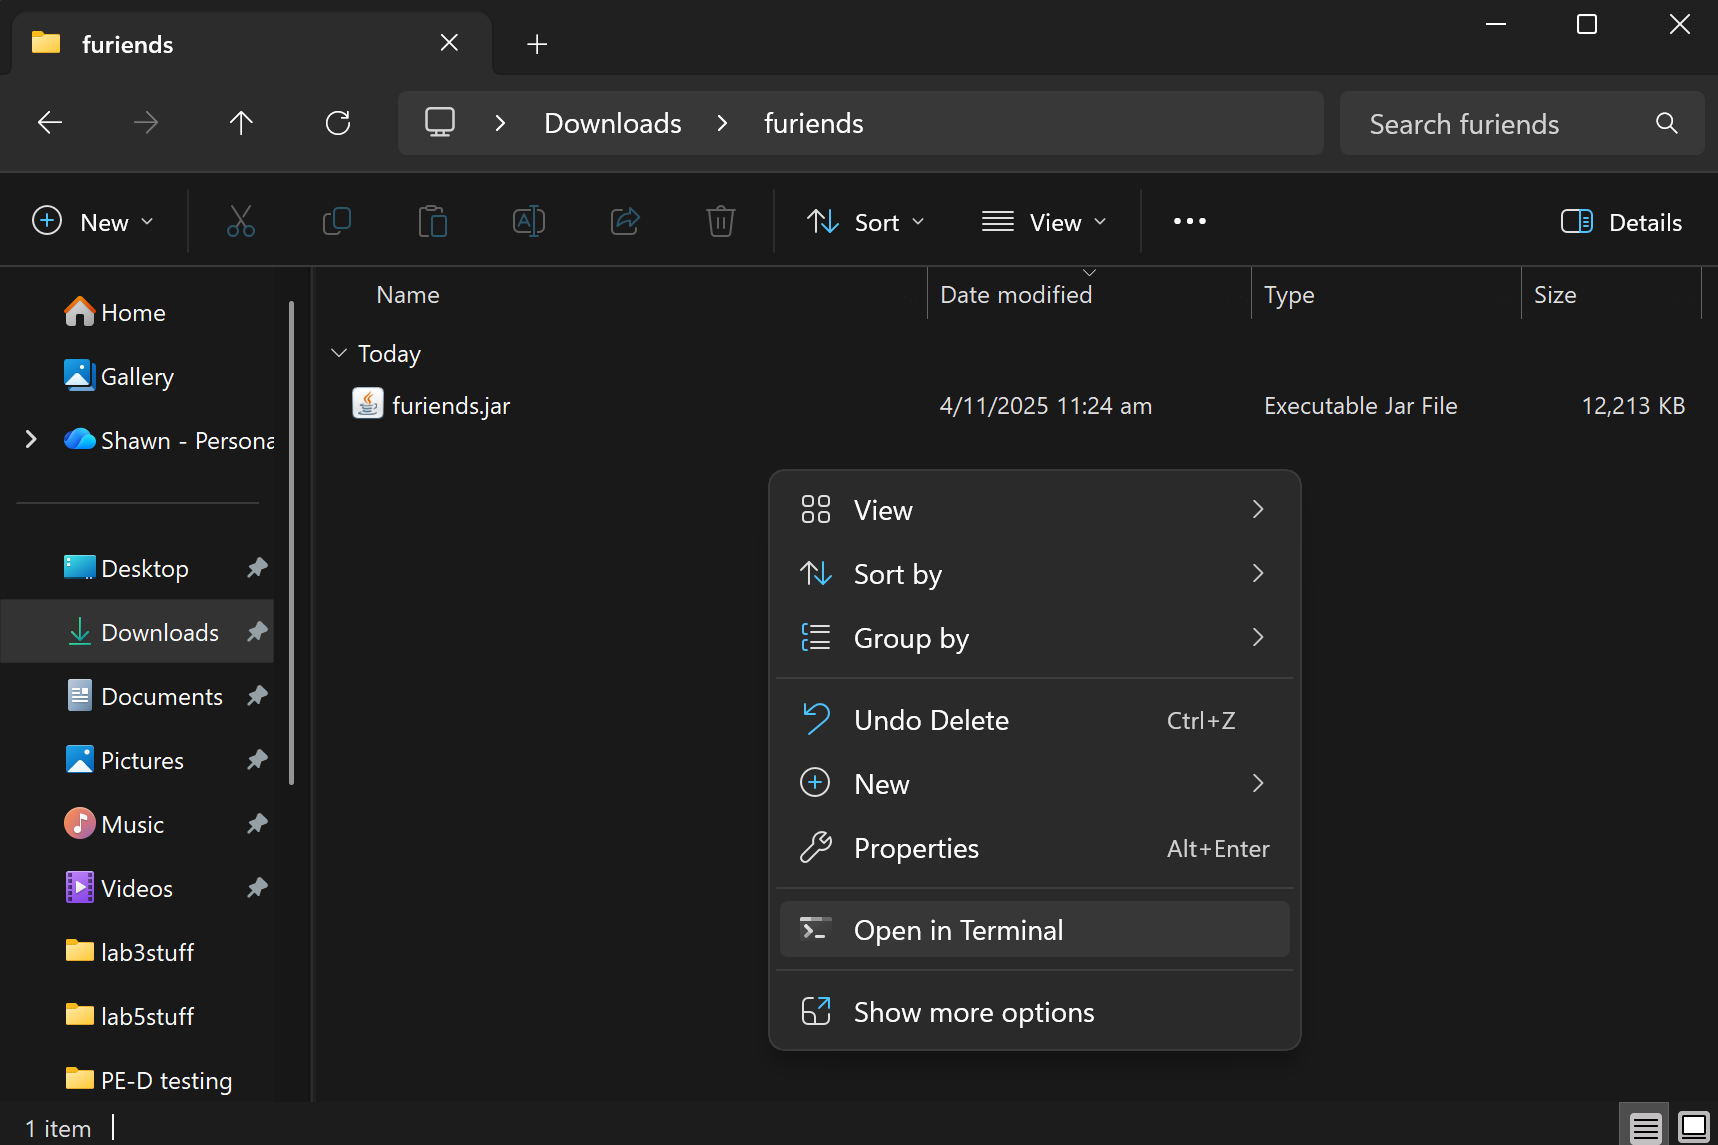
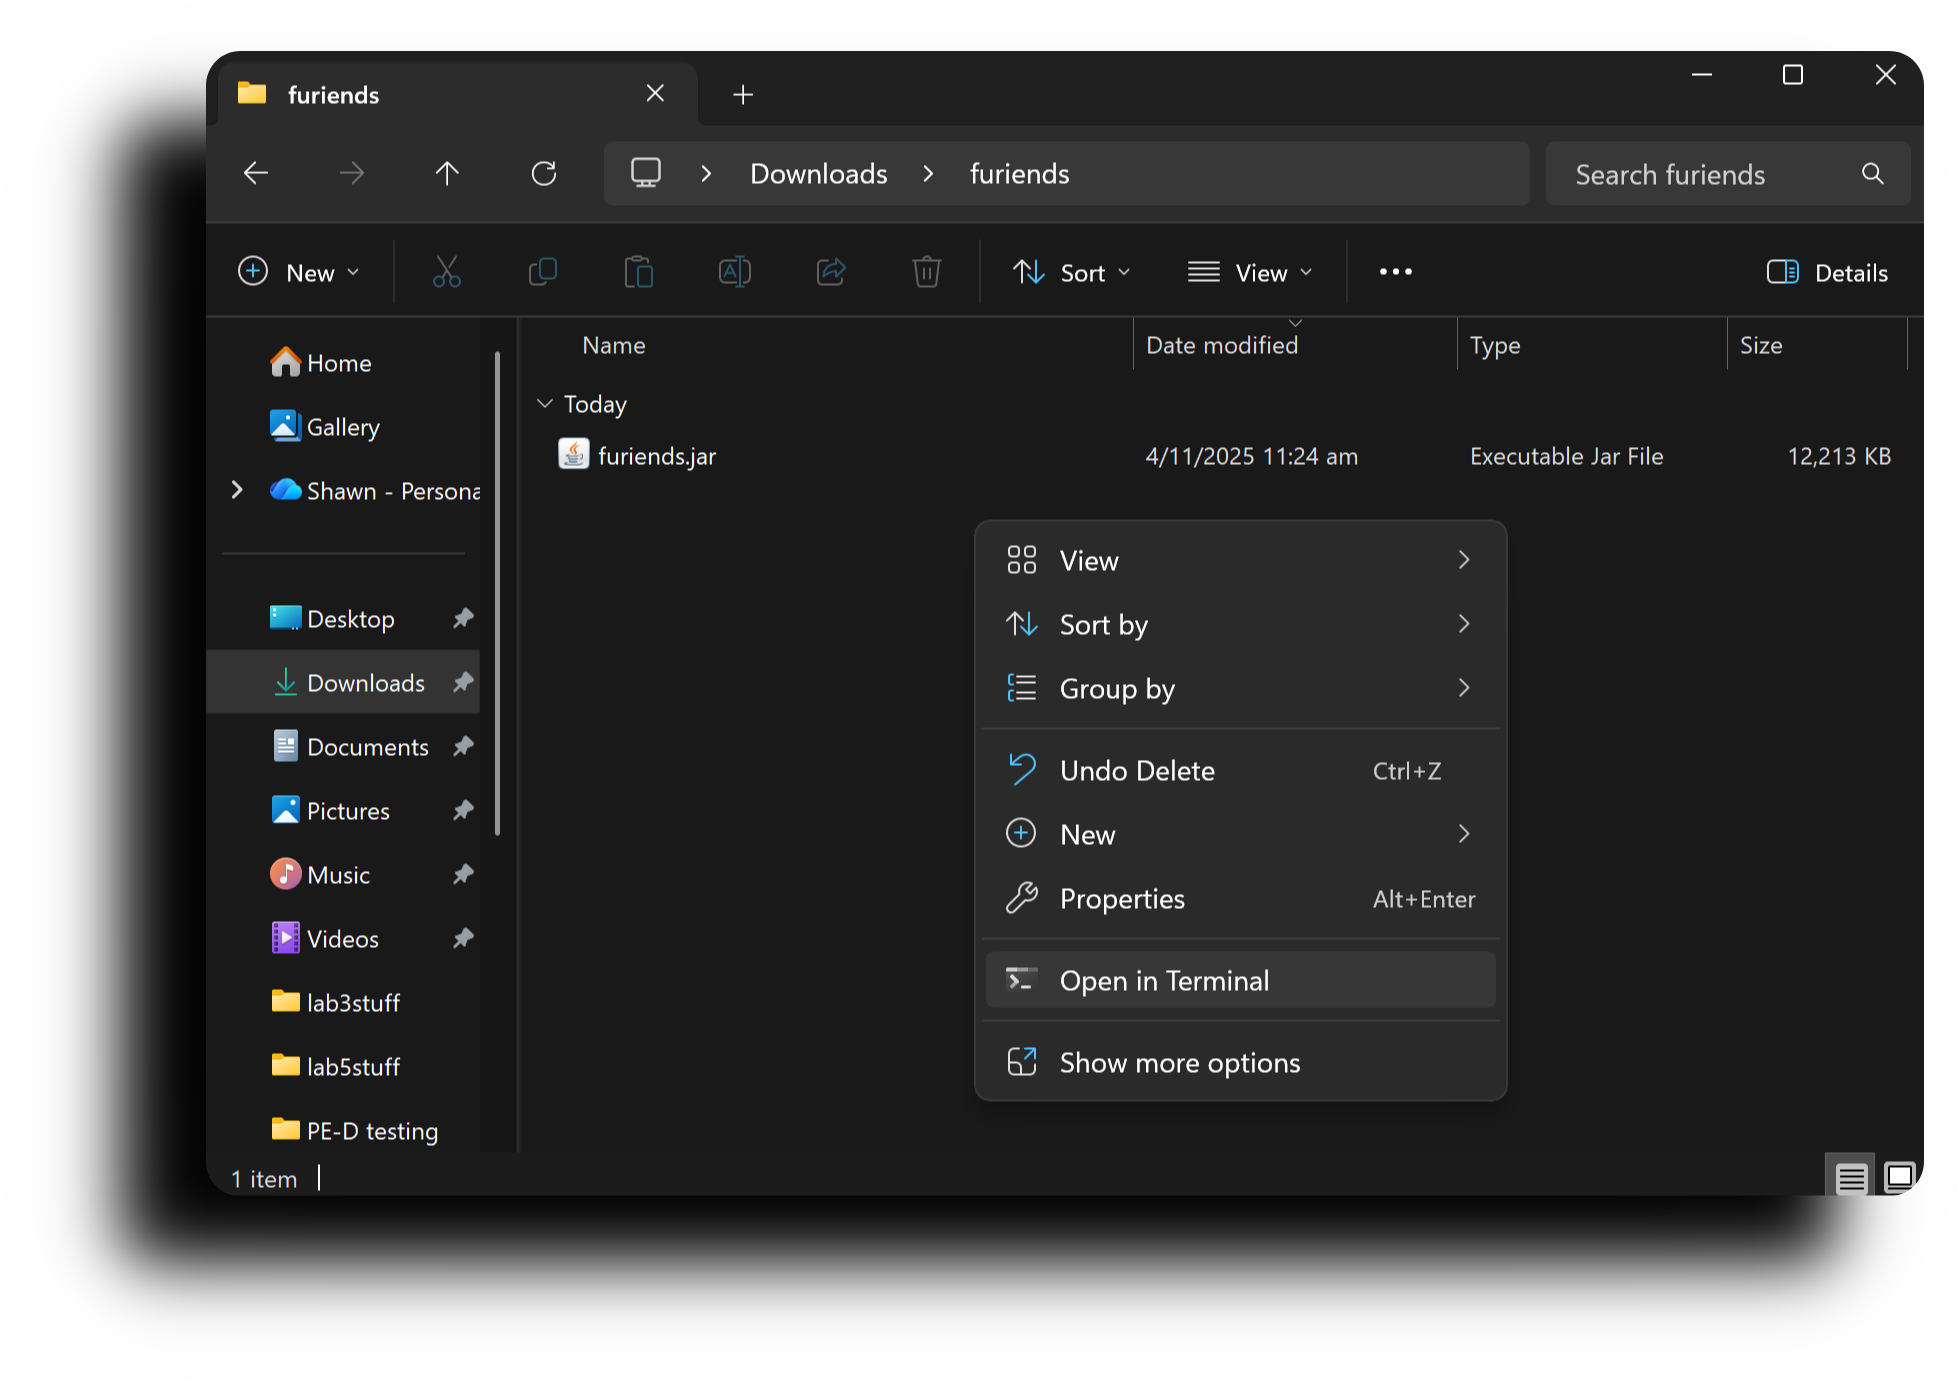
Fix UG images again

diff --git a/docs/UserGuide.md b/docs/UserGuide.md
@@ -90,7 +90,7 @@ The file is usually in the `Downloads` folder after downloading it.
 <br>
 <div style="text-align: center;">
 
-![widowsFileExplorer](images/windowsOpenInTerminal.png){style="width:500px; height:auto; border-radius:6px; box-shadow: 0 8px 16px rgba(0,0,0,0.3);"}
+![widowsFileExplorer](images/windowsOpenInTerminal.png){style="width:500px; height:auto;"}
 
 </div>
 <br>
@@ -571,13 +571,11 @@ Format: `feed f/PERSON_NAME n/ANIMAL_NAME dt/DATETIME`
 * `DATETIME` must be a valid day and time.
 * The order of `n/ANIMAL_NAME`, `f/PERSON_NAME` and `dt/DATETIME` does not matter.
 
-<div style="page-break-after: always;"></div>
-
 Examples: refer to input restrictions [here](#valid-inputs-format)
 * `feed f/Alex Yeoh n/Max dt/2025-01-24 09:00` <br>
    This command assigns `Alex Yeoh` and `Max` to the same feeding session. <br>
 
-<!-- <div style="display: flex; flex-direction: column; align-items: center; gap: 30px; margin: 20px 0;">
+<div style="display: flex; flex-direction: column; align-items: center; gap: 30px; margin: 20px 0;">
   <div style="display: flex; align-items: center; gap: 20px;">
     <img src="images/feedPersonExampleBefore.png" style="width:400px; height:auto;" alt="Person before feeding">
     <span style="font-size: 48px; color: #666;">→</span>
@@ -588,15 +586,6 @@ Examples: refer to input restrictions [here](#valid-inputs-format)
     <span style="font-size: 48px; color: #666;">→</span>
     <img src="images/feedAnimalExampleAfter.png" style="width:400px; height:auto;" alt="Animal after feeding">
   </div>
-</div> -->
-
-
-<div style="display: flex; flex-direction: column; align-items: center; gap: 30px; margin: 20px 0;">
-  <img src="images/feedPersonExampleBefore.png" style="width:400px; height:auto; border-radius:10px; box-shadow: 0 8px 16px rgba(0,0,0,0.3);" alt="Person before feeding">
-  <img src="images/feedAnimalExampleBefore.png" style="width:400px; height:auto; border-radius:10px; box-shadow: 0 8px 16px rgba(0,0,0,0.3);" alt="Animal before feeding">
-  <span style="font-size: 30px; color: #666;">↓</span>
-  <img src="images/feedPersonExampleAfter.png" style="width:400px; height:auto; border-radius:10px; box-shadow: 0 8px 16px rgba(0,0,0,0.3);" alt="Person after feeding">
-  <img src="images/feedAnimalExampleAfter.png" style="width:400px; height:auto; border-radius:10px; box-shadow: 0 8px 16px rgba(0,0,0,0.3);" alt="Animal after feeding">
 </div>
 
 <box type="info" seamless>
@@ -882,8 +871,8 @@ Action (in alphabetical order) | Format, Examples
 **Edit Person**                | `edit person NAME [n/NAME] [p/PHONE] [e/EMAIL] [t/TAG]… `<br> e.g.,`edit person John Doe n/James Lee e/jameslee@example.com`
 **Exit**                       | `exit`
 **Feed**                       | `feed f/PERSON_NAME n/ANIMAL_NAME dt/DATETIME`<br> e.g., `feed n/Fluffy f/John Doe dt/2005-04-09 10:00`
-**Find Animal**                | `find animal [n/KEYWORD] [t/KEYWORD] [MORE_KEYWORDS]`<br> e.g., `find n/Fluffy n/Max t/cute`
-**Find Person**                | `find person [n/KEYWORD] [t/KEYWORD] [MORE_KEYWORDS]`<br> e.g., `find n/James t/family`
+**Find Animal**                | `find animal [n/KEYWORD] [t/KEYWORD] [MORE_KEYWORDS]`<br> e.g., `find animal n/Fluffy n/Max t/cute`
+**Find Person**                | `find person [n/KEYWORD] [t/KEYWORD] [MORE_KEYWORDS]`<br> e.g., `find person n/James t/family`
 **Help**                       | `help [COMMAND]`<br> e.g. `help` <br> e.g. `help add person`
 **List**                       | `list`
 **Redo**                       | `redo`
